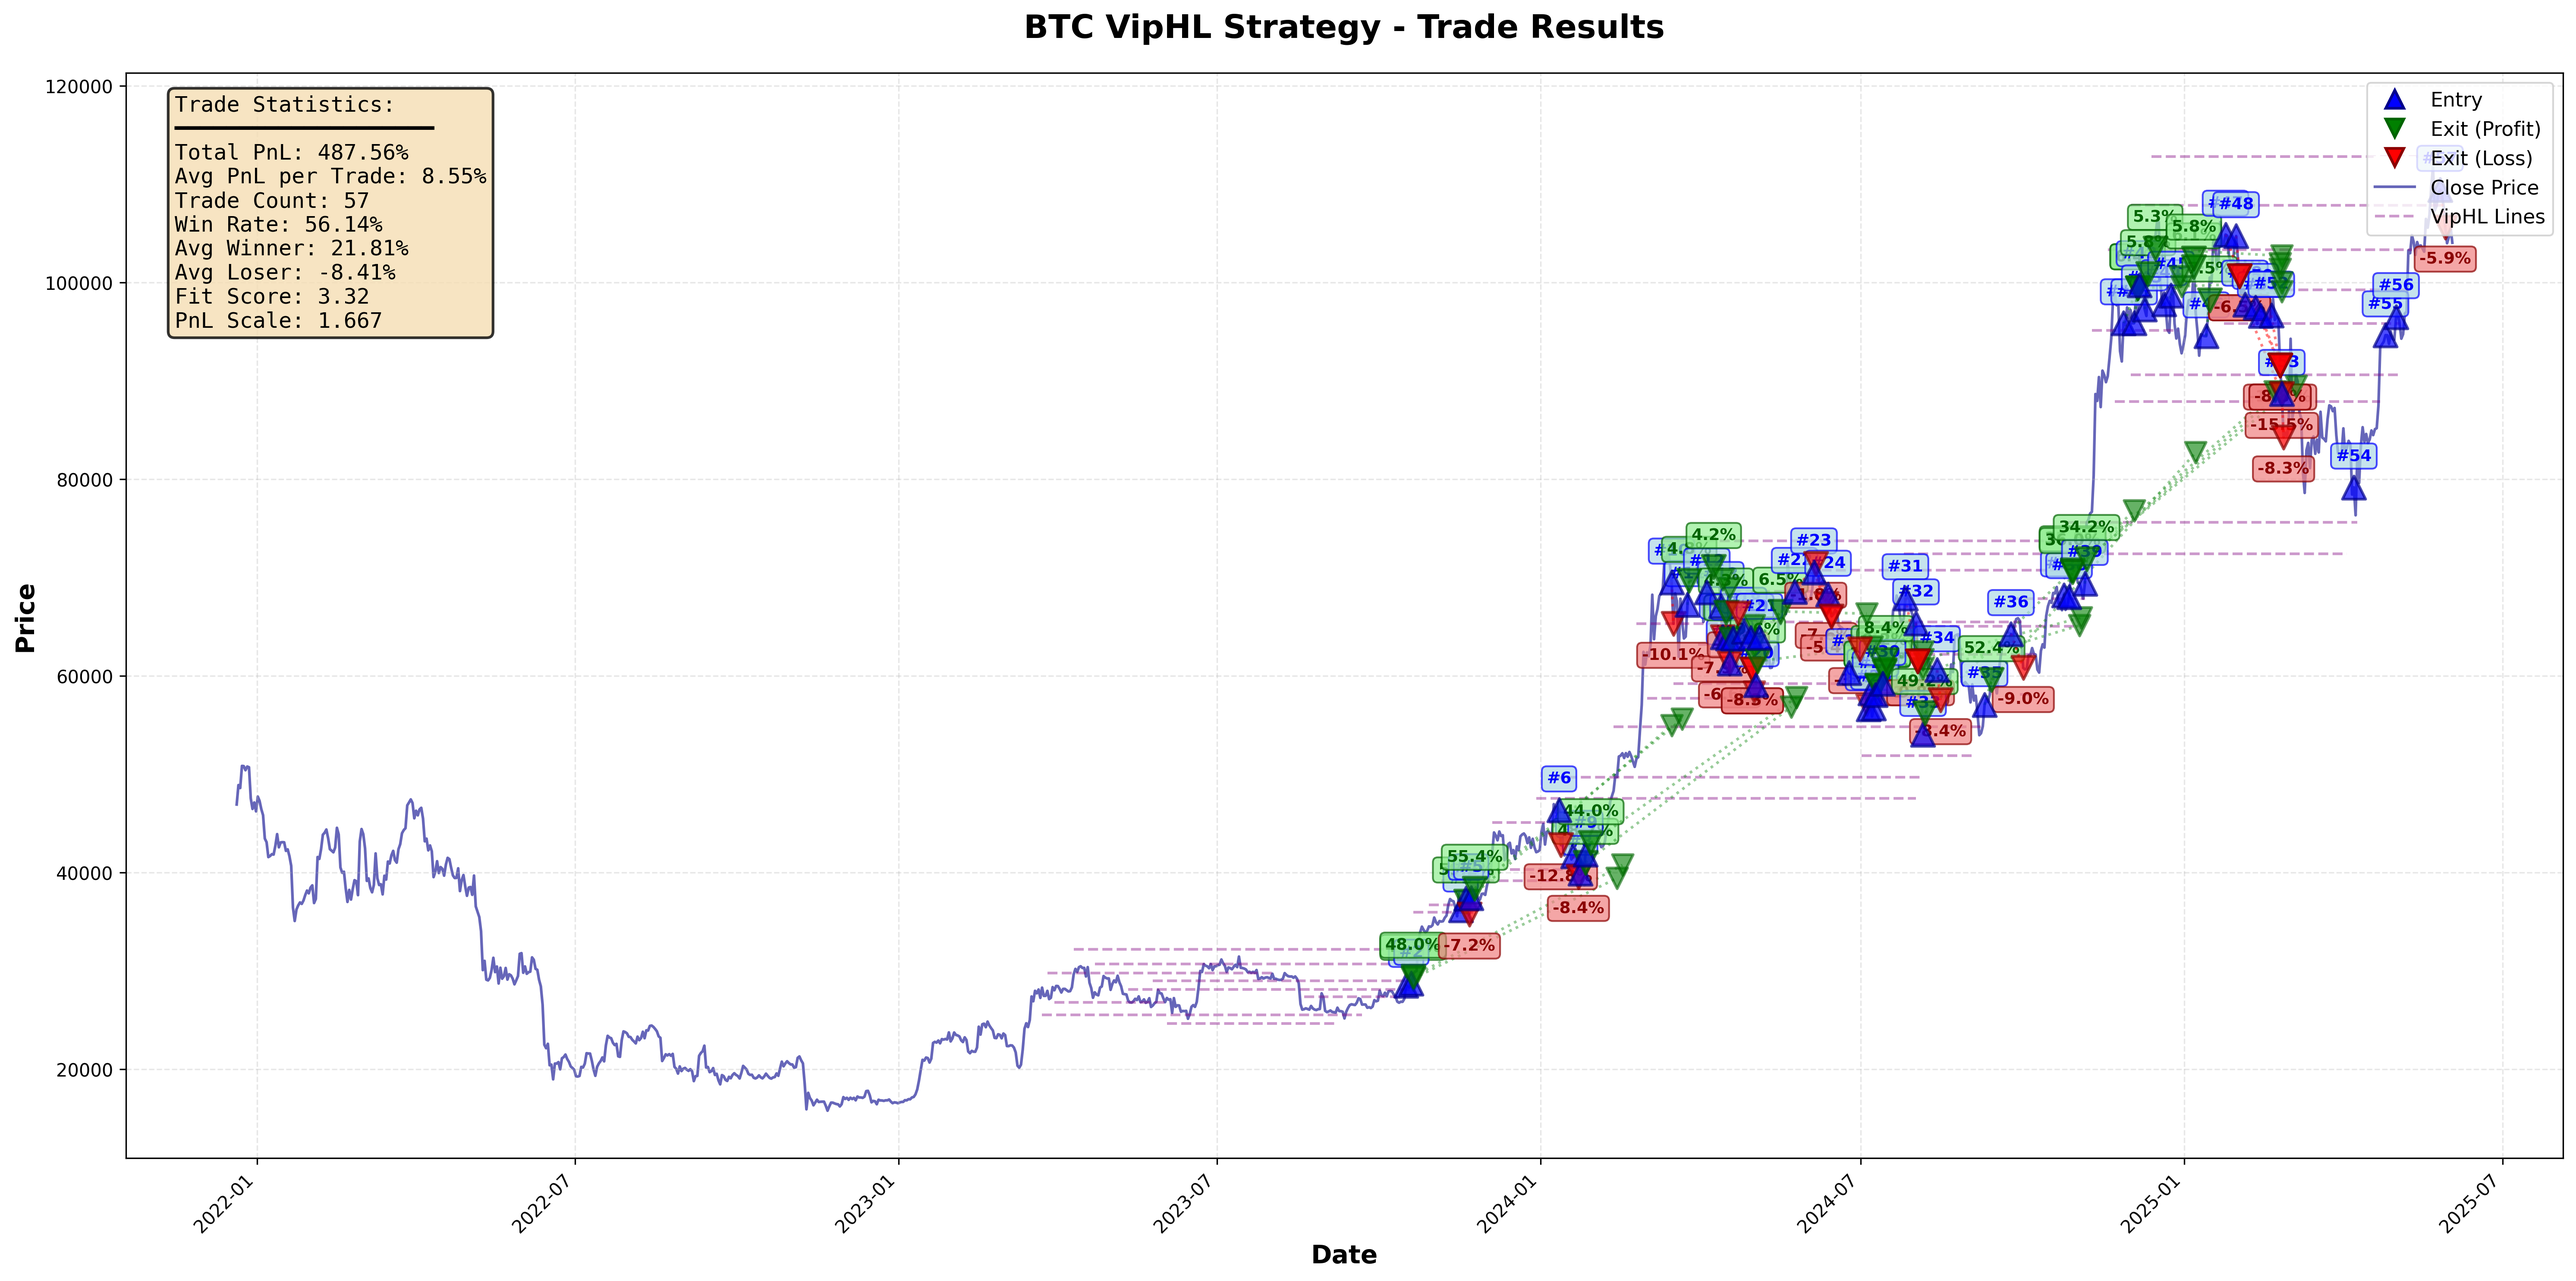
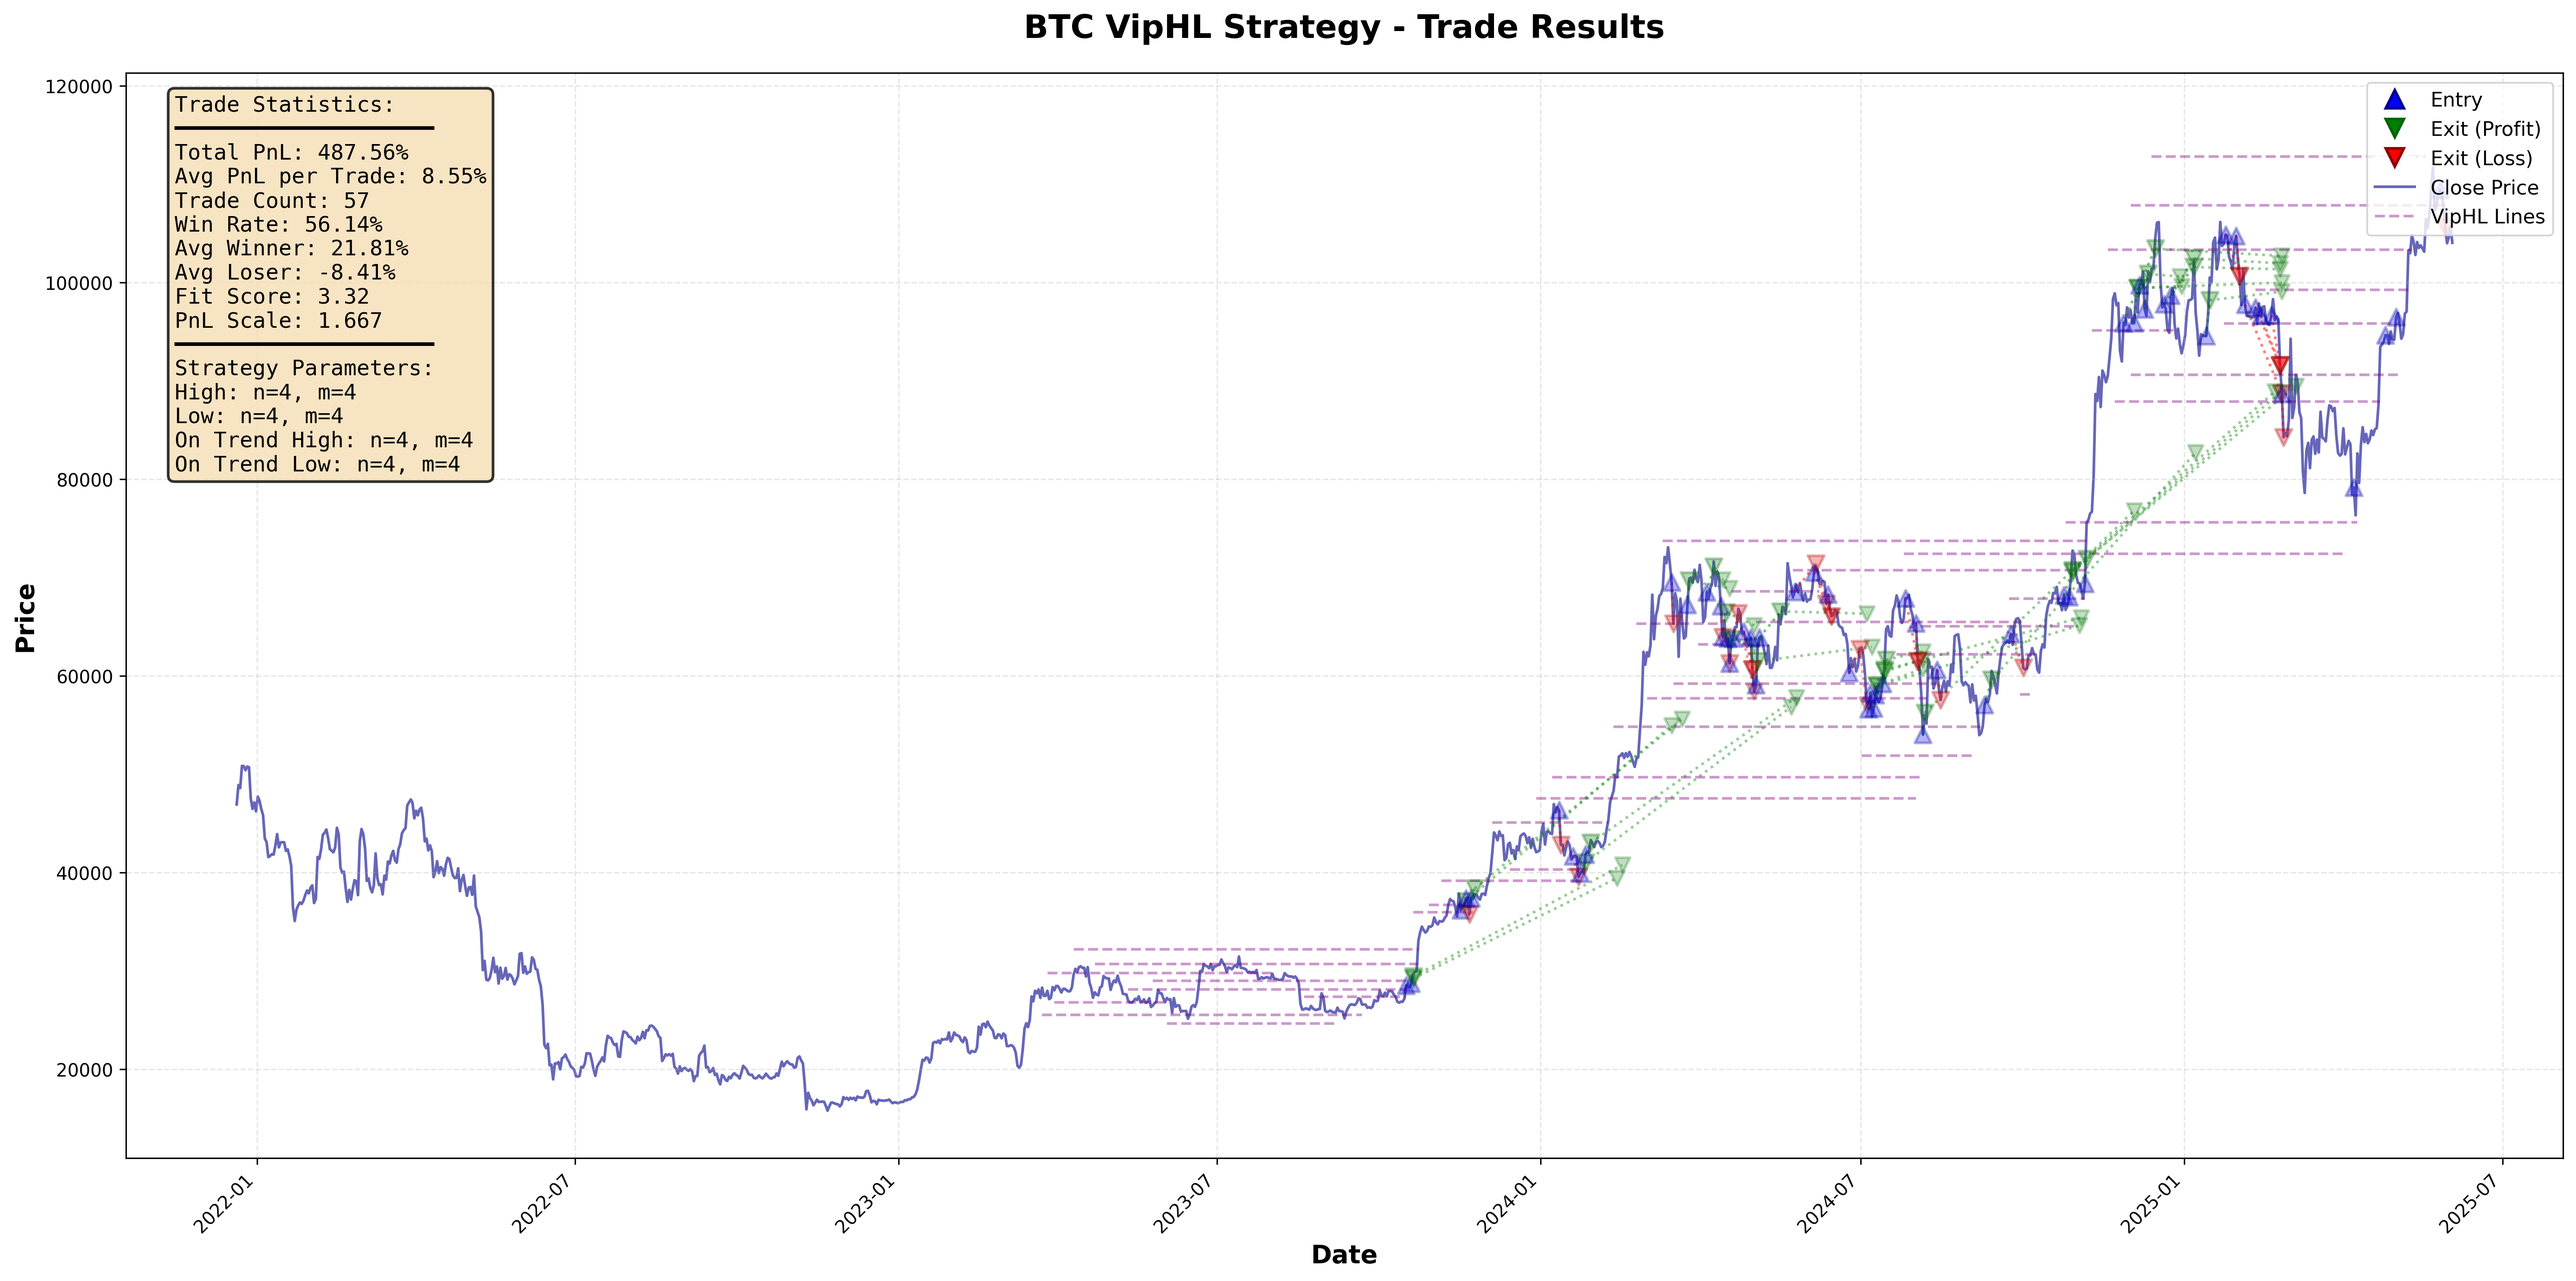
Improve trade visualization: smaller transparent markers and add parameter display
- Reduce triangle marker size from 100-300 to 50-150 for cleaner appearance
- Increase transparency: entry/exit markers alpha from 0.7 to 0.3
- Remove trade number annotations (#1, #2, etc.)
- Remove profit/loss percentage annotations on markers
- Add strategy parameters display: show m and n values for High, Low, and On Trend settings
- Update both plot_trade_results() and plot_trade_results_from_strategy() to support parameters

diff --git a/trade_visualization.py b/trade_visualization.py
@@ -8,7 +8,7 @@ from backtrader import num2date
 
 
 def plot_trade_results(dataframe, trade_list, trade_scales, lines_info, result_stats,
-                       title="Trade Visualization", save_filename=None):
+                       title="Trade Visualization", save_filename=None, strategy_params=None):
     """
     Visualize trading strategy results with entry/exit markers and performance statistics
 
@@ -20,6 +20,7 @@ def plot_trade_results(dataframe, trade_list, trade_scales, lines_info, result_s
     - result_stats: dict with strategy performance metrics
     - title: chart title
     - save_filename: optional filename to save the plot
+    - strategy_params: optional dict with strategy parameters (m, n values)
     """
 
     # Setup figure
@@ -59,21 +60,13 @@ def plot_trade_results(dataframe, trade_list, trade_scales, lines_info, result_s
         scale = trade_scales.get(id(trade), 1.0)
         pnl = trade.pnl
 
-        # Calculate marker size based on PnL scale (1-3 -> size 100-300)
-        marker_size = 100 + (scale - 1.0) * 100
+        # Calculate marker size based on PnL scale (1-3 -> size 50-150, smaller)
+        marker_size = 50 + (scale - 1.0) * 50
 
-        # Entry marker (blue, always)
+        # Entry marker (blue, always) - more transparent
         ax.scatter(entry_date, entry_price, s=marker_size,
-                  color='blue', marker='^', alpha=0.7,
+                  color='blue', marker='^', alpha=0.3,
                   edgecolors='darkblue', linewidths=1.5, zorder=5)
-
-        # Annotate entry with trade number
-        ax.annotate(f'#{idx+1}',
-                   xy=(entry_date, entry_price),
-                   xytext=(0, 15), textcoords='offset points',
-                   fontsize=9, color='blue', fontweight='bold',
-                   ha='center', bbox=dict(boxstyle='round,pad=0.3',
-                   facecolor='lightblue', alpha=0.7, edgecolor='blue'))
 
         # Exit markers (if trade is closed)
         if not trade.is_open:
@@ -86,9 +79,9 @@ def plot_trade_results(dataframe, trade_list, trade_scales, lines_info, result_s
                 first_exit_date = num2date(trade.first_time)
                 first_exit_price = entry_price * (1 + trade.first_return / 100)
 
-                # Plot exit marker
+                # Plot exit marker - more transparent
                 ax.scatter(first_exit_date, first_exit_price, s=marker_size,
-                          color=exit_color, marker='v', alpha=0.7,
+                          color=exit_color, marker='v', alpha=0.3,
                           edgecolors=exit_dark_color, linewidths=1.5, zorder=5)
 
                 # Draw line from entry to exit
@@ -97,24 +90,14 @@ def plot_trade_results(dataframe, trade_list, trade_scales, lines_info, result_s
                        color=exit_color, linestyle=':', linewidth=1.5,
                        alpha=0.5, zorder=3)
 
-                # Annotate PnL
-                y_offset = -20 if pnl < 0 else 15
-                ax.annotate(f'{pnl:.1f}%',
-                           xy=(first_exit_date, first_exit_price),
-                           xytext=(0, y_offset), textcoords='offset points',
-                           fontsize=9, color=exit_dark_color, fontweight='bold',
-                           ha='center', bbox=dict(boxstyle='round,pad=0.3',
-                           facecolor='lightgreen' if pnl > 0 else 'lightcoral',
-                           alpha=0.7, edgecolor=exit_dark_color))
-
             # Second exit (if partial exit occurred)
             if trade.take_profit and trade.second_time > 0:
                 second_exit_date = num2date(trade.second_time)
                 second_exit_price = entry_price * (1 + trade.second_return / 100)
 
-                # Plot second exit marker (slightly smaller)
+                # Plot second exit marker (slightly smaller) - more transparent
                 ax.scatter(second_exit_date, second_exit_price, s=marker_size*0.8,
-                          color=exit_color, marker='v', alpha=0.6,
+                          color=exit_color, marker='v', alpha=0.25,
                           edgecolors=exit_dark_color, linewidths=1.5, zorder=5)
 
                 # Draw line from first exit to second exit
@@ -137,6 +120,17 @@ Avg Winner: {result_stats.get('Avg Winner%', 0):.2f}%
 Avg Loser: {result_stats.get('Avg Loser%', 0):.2f}%
 Fit Score: {result_stats.get('Fit Score', 0):.2f}
 PnL Scale: {result_stats.get('Scale', 0):.3f}"""
+
+    # Add parameters section if provided
+    if strategy_params:
+        params_text = f"""
+━━━━━━━━━━━━━━━━━━━━
+Strategy Parameters:
+High: n={strategy_params.get('high_by_point_n', 'N/A')}, m={strategy_params.get('high_by_point_m', 'N/A')}
+Low: n={strategy_params.get('low_by_point_n', 'N/A')}, m={strategy_params.get('low_by_point_m', 'N/A')}
+On Trend High: n={strategy_params.get('high_by_point_n_on_trend', 'N/A')}, m={strategy_params.get('high_by_point_m_on_trend', 'N/A')}
+On Trend Low: n={strategy_params.get('low_by_point_n_on_trend', 'N/A')}, m={strategy_params.get('low_by_point_m_on_trend', 'N/A')}"""
+        stats_text += params_text
 
     # Position textbox in top-left corner
     ax.text(0.02, 0.98, stats_text, transform=ax.transAxes, fontsize=12,
@@ -210,6 +204,18 @@ def plot_trade_results_from_strategy(strategy_instance, title="Trade Visualizati
     lines_info = strategy_instance.lines_info
     result_stats = strategy_instance.result
 
+    # Extract strategy parameters
+    strategy_params = {
+        'high_by_point_n': strategy_instance.params.high_by_point_n,
+        'high_by_point_m': strategy_instance.params.high_by_point_m,
+        'low_by_point_n': strategy_instance.params.low_by_point_n,
+        'low_by_point_m': strategy_instance.params.low_by_point_m,
+        'high_by_point_n_on_trend': strategy_instance.params.high_by_point_n_on_trend,
+        'high_by_point_m_on_trend': strategy_instance.params.high_by_point_m_on_trend,
+        'low_by_point_n_on_trend': strategy_instance.params.low_by_point_n_on_trend,
+        'low_by_point_m_on_trend': strategy_instance.params.low_by_point_m_on_trend,
+    }
+
     # Convert backtrader data to pandas DataFrame
     dates = [strategy_instance.data.datetime.datetime(i)
             for i in range(-len(strategy_instance.data), 0)]
@@ -225,7 +231,7 @@ def plot_trade_results_from_strategy(strategy_instance, title="Trade Visualizati
     df.set_index('datetime', inplace=True)
 
     return plot_trade_results(df, trade_list, trade_scales, lines_info,
-                             result_stats, title, save_filename)
+                             result_stats, title, save_filename, strategy_params)
 
 
 # Example usage when importing

diff --git a/run_and_visualize.py b/run_and_visualize.py
@@ -67,6 +67,18 @@ def run_strategy_and_plot(csv_file='BTC.csv', save_plot=True):
     if save_plot:
         save_filename = f"{ticker}_trade_results.png"
 
+    # Extract strategy parameters for display
+    strategy_params = {
+        'high_by_point_n': strat.params.high_by_point_n,
+        'high_by_point_m': strat.params.high_by_point_m,
+        'low_by_point_n': strat.params.low_by_point_n,
+        'low_by_point_m': strat.params.low_by_point_m,
+        'high_by_point_n_on_trend': strat.params.high_by_point_n_on_trend,
+        'high_by_point_m_on_trend': strat.params.high_by_point_m_on_trend,
+        'low_by_point_n_on_trend': strat.params.low_by_point_n_on_trend,
+        'low_by_point_m_on_trend': strat.params.low_by_point_m_on_trend,
+    }
+
     plot_trade_results(
         dataframe=dataframe,
         trade_list=strat.trade_list,
@@ -74,7 +86,8 @@ def run_strategy_and_plot(csv_file='BTC.csv', save_plot=True):
         lines_info=strat.lines_info,
         result_stats=strat.result,
         title=title,
-        save_filename=save_filename
+        save_filename=save_filename,
+        strategy_params=strategy_params
     )
 
     return strat, dataframe
